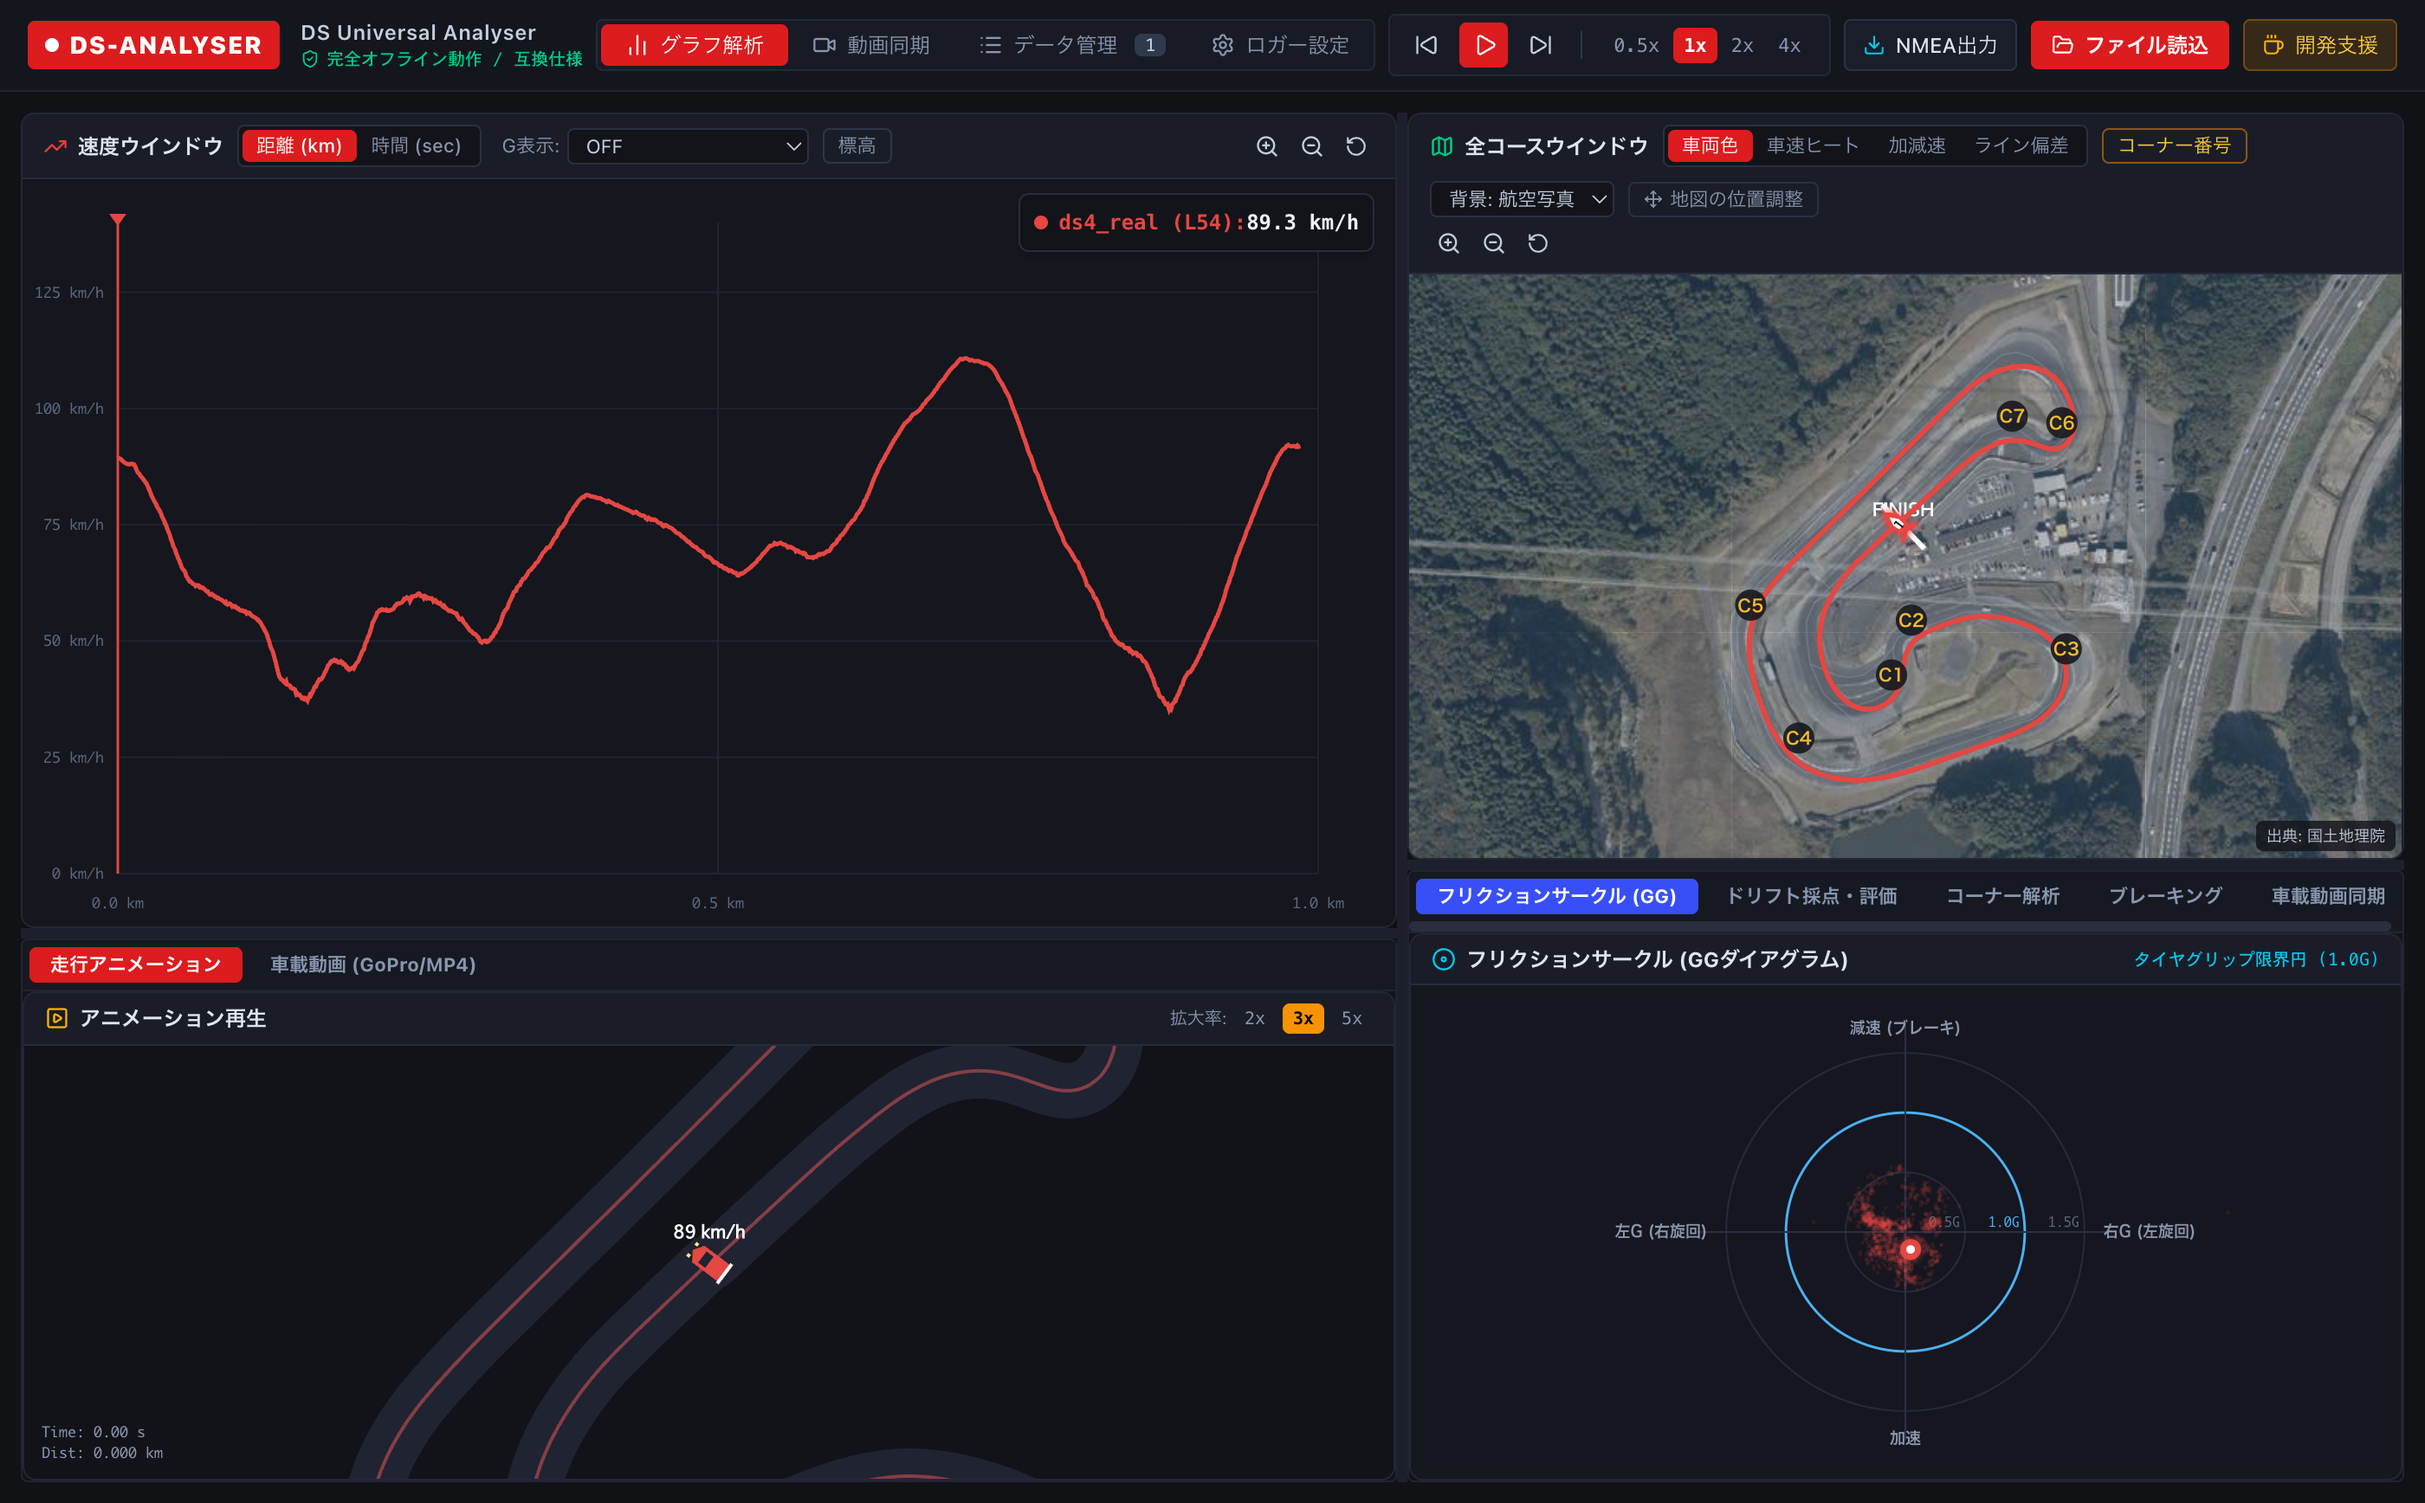
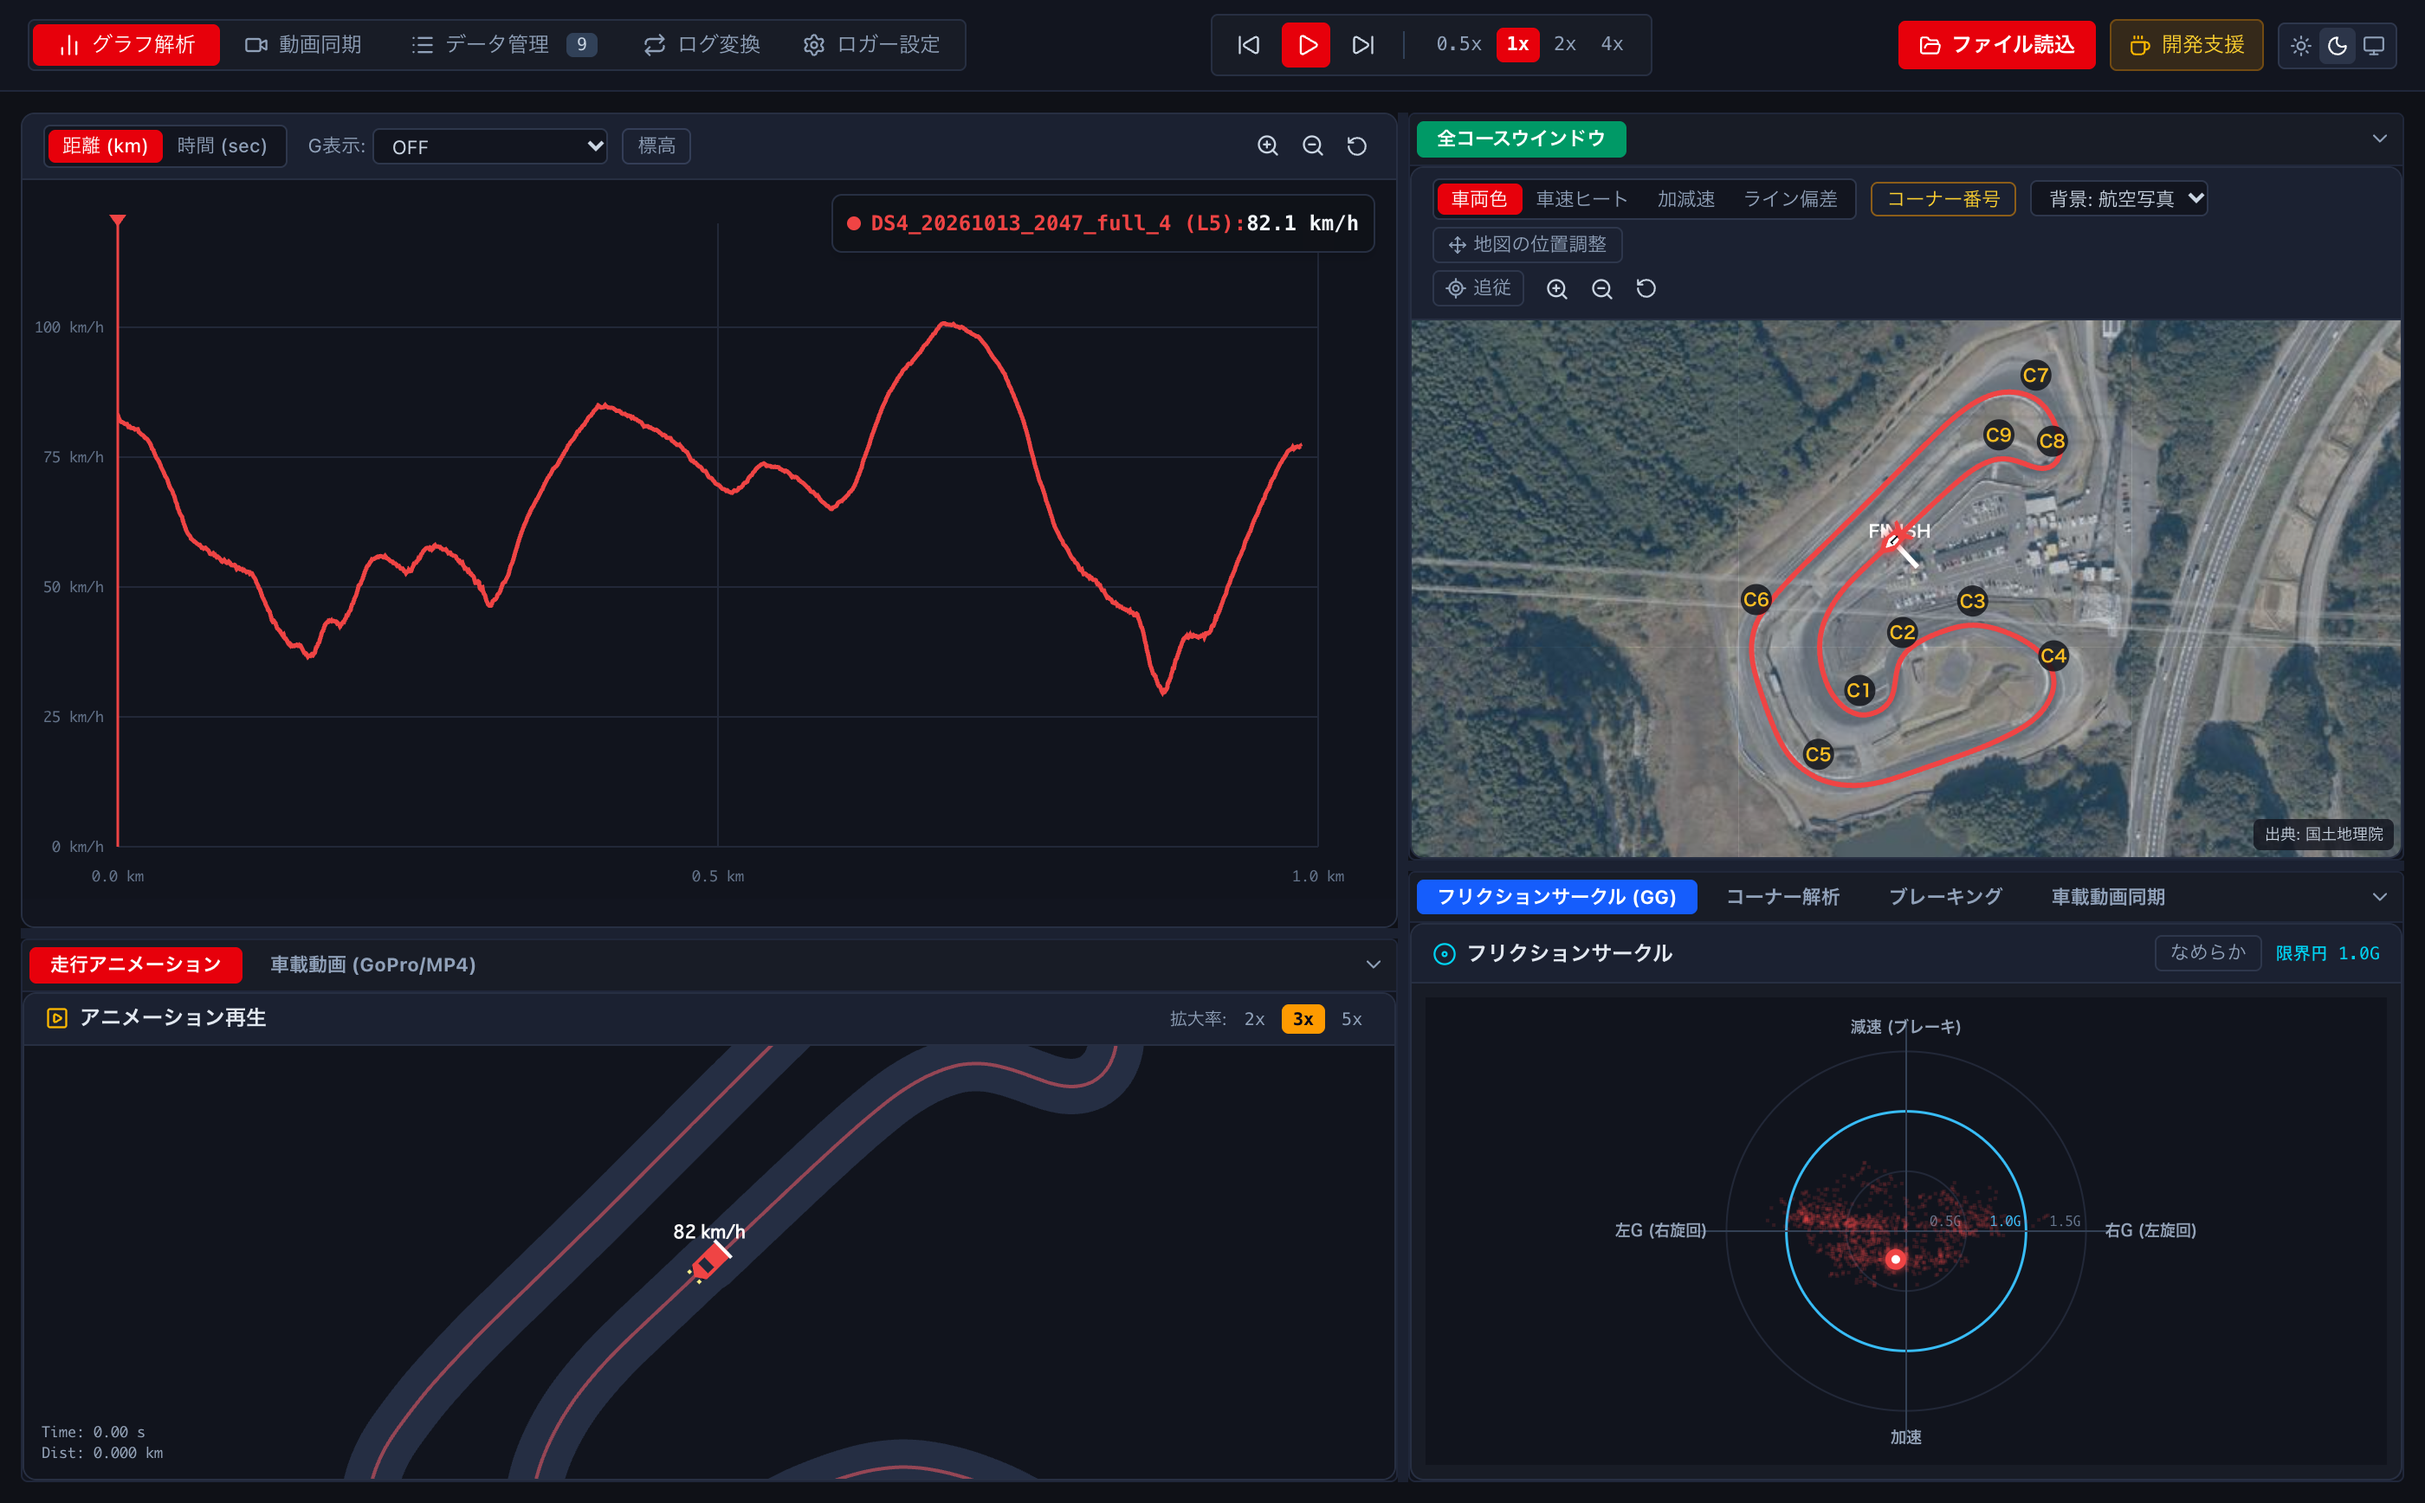
docs: README の画面サンプル (グラフ解析・コーナー解析・ログ変換) を今の画面で撮り直す
Claude-Session: https://claude.ai/code/session_01S7qfJm9CjxuNvqoCpSwGyQ

diff --git a/README.md b/README.md
@@ -38,7 +38,7 @@
 
 ![コーナー解析画面](docs/images/corner_analysis.png)
 
-**ログ変換**: 読み込んだログを NMEA / GPX / CSV / DTB / 地図 HTML などに書き出し
+**ログ変換**: 読み込んだログの一部（ラップ・時間）を切り出して、NMEA / GPX / CSV / 地図 HTML、走行データCSV・ラップ一覧CSV・DTB に書き出し
 
 ![ログ変換画面](docs/images/convert.png)
 
@@ -46,7 +46,7 @@
 
 ![ロガー設定画面](docs/images/logger.png)
 
-※ グラフ解析とコーナー解析の画像は、ログ変換ページを追加する前の画面です。
+※ ロガー設定の画像は、表示テーマの切り替えなどを追加する前の画面です。
 
 ---
 
